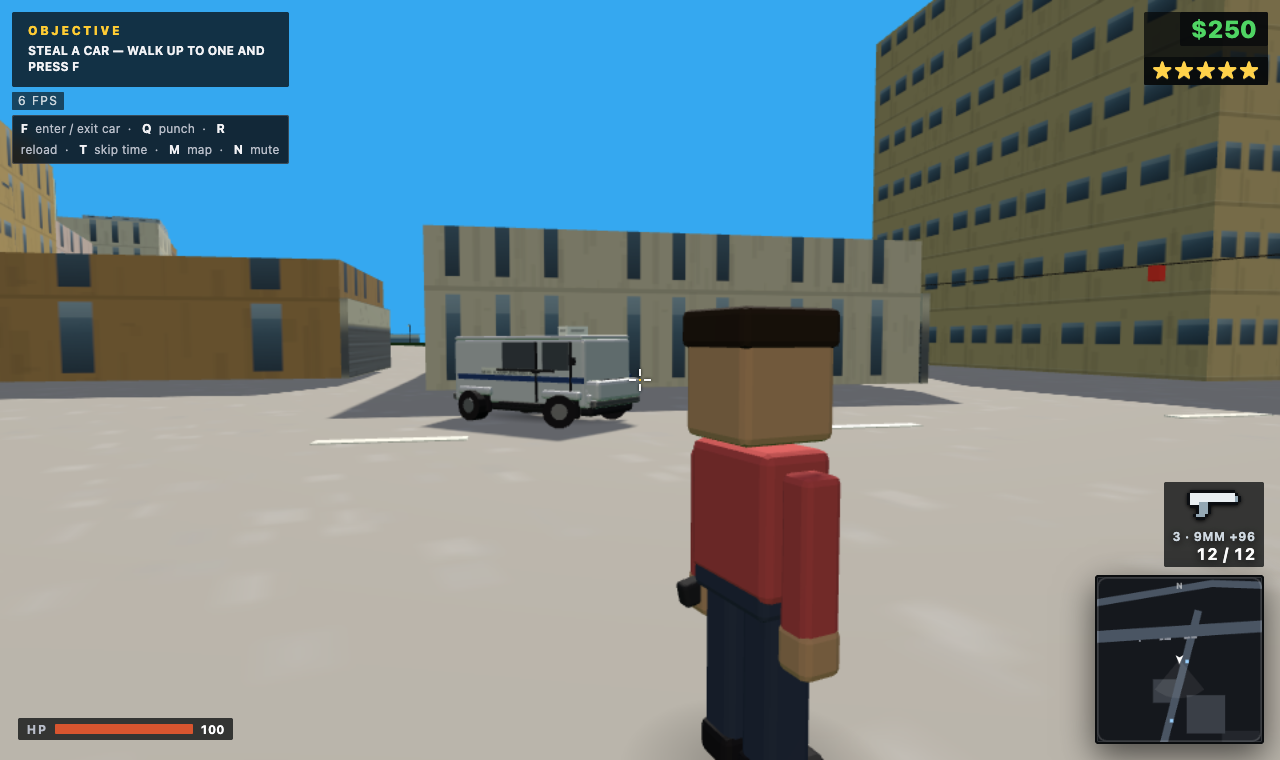
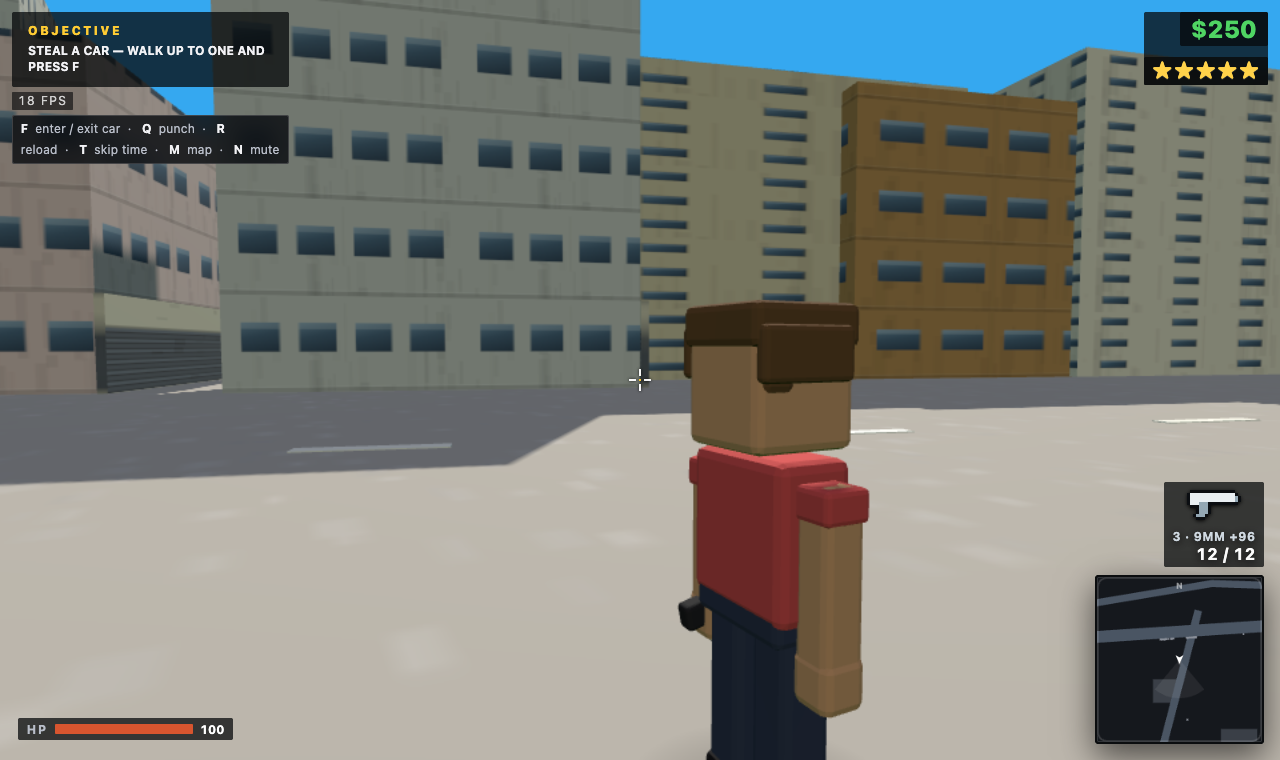
fix(world): shopfront plinths as plain meshes, and this time they draw
The merged-geometry path produced a mesh that existed in the scene, had 43k vertices, appeared in traversal, and never rendered - three attempts, three failures. Replaced with one mesh per building on the same block group as the body: the striped roller-door band is now visible at the base of the Glodok shophouses in the street shot.

qa 19/19, draw calls 1319.

diff --git a/src/world/city.ts b/src/world/city.ts
@@ -246,6 +246,7 @@ export class City {
   declare shopMats: THREE.MeshStandardMaterial[];
   declare focusTarget: THREE.Vector3;
   declare daylight: number;
+  declare rootGroup: THREE.Group;
   /** shopfront rings, merged into one mesh at the end of the block pass */
   declare shopfrontGeos: THREE.BufferGeometry[];
   declare propAudit: { name: string; x: number; z: number; bottom: number }[];
@@ -503,6 +504,7 @@ export class City {
     // river, in a road corridor or on top of a landmark.
     const sites = this.planBlockSites();
     const blockLayer = this.group;
+    this.rootGroup = this.group;
     for (const site of sites) {
       const { x: cx, z: cz, size } = site;
       const district = districtAtPoint(cx, cz);
@@ -566,7 +568,6 @@ export class City {
       this.blocks.push({ x: lm.x, z: lm.z, type: 'landmark', landmark: lm.id, size: 40 });
     }
 
-    this.flushShopfronts();
     this.buildFrontage();
     this.buildTerrainFeatures();
     this.buildRoadRibbons();
@@ -1506,12 +1507,15 @@ export class City {
     const roofMat = new THREE.MeshStandardMaterial({ color: style ? style.roof : 0x4a4a4c, roughness: 0.95 });
     const mats = [sideMat, sideMat, roofMat, roofMat, sideMat, sideMat];
 
-    // shopfront plinth: collected, not added, so every building's ground floor is one draw call
+    // Shopfront plinth, added directly to the block group. The merged path produced a mesh that
+    // existed in the scene and never drew, three attempts running; a plain mesh that hangs off
+    // the same group as the body cannot fail that way. Cost: one draw call per building.
     if (h > 4 && d > 5) {
-      if (!this.shopfrontGeos) this.shopfrontGeos = [];
-      const ring = new THREE.BoxGeometry(w + 0.34, 3.2, d + 0.34);
-      ring.translate(x, 1.9, z);
-      this.shopfrontGeos.push(ring);
+      const plinth = new THREE.Mesh(new THREE.BoxGeometry(w + 0.34, 3.2, d + 0.34), shopfrontMat());
+      plinth.position.set(x, 1.9 + 0.2, z);
+      plinth.castShadow = true;
+      plinth.receiveShadow = true;
+      this.group.add(plinth);
     }
 
     const b = new THREE.Mesh(new THREE.BoxGeometry(w, h, d), mats);
@@ -2377,7 +2381,7 @@ export class City {
       const mesh = new THREE.Mesh(merged, shopfrontMat());
       mesh.castShadow = true;
       mesh.receiveShadow = true;
-      this.group.add(mesh);
+      (this.rootGroup ?? this.group).add(mesh);
     }
     this.shopfrontGeos.forEach((g) => g.dispose());
     this.shopfrontGeos = [];
